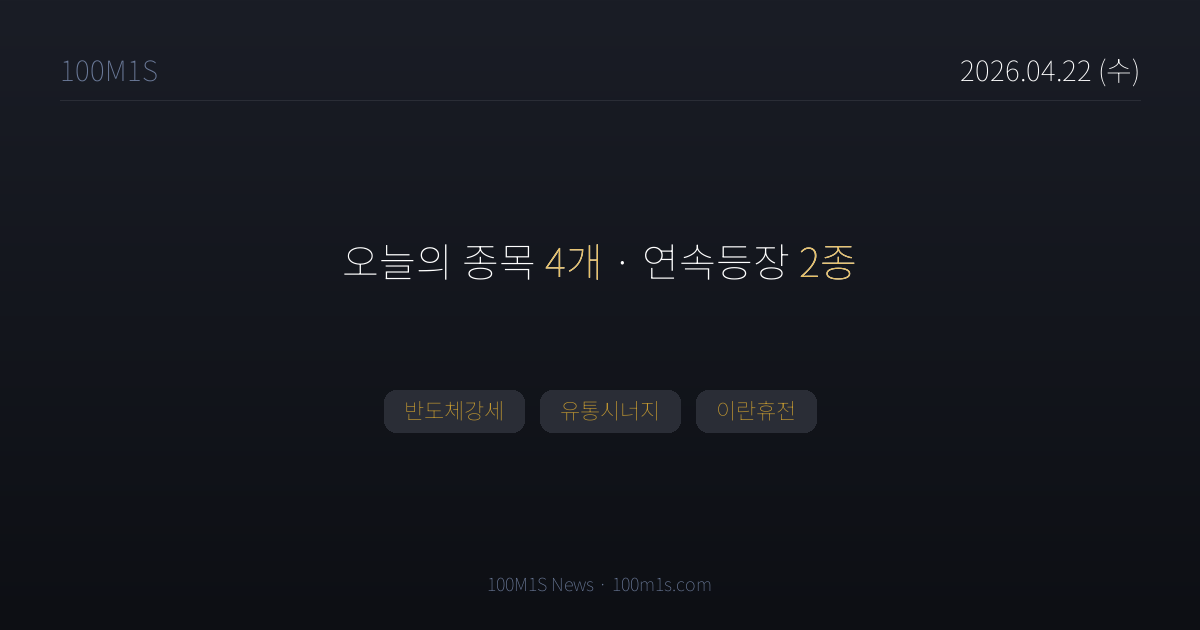
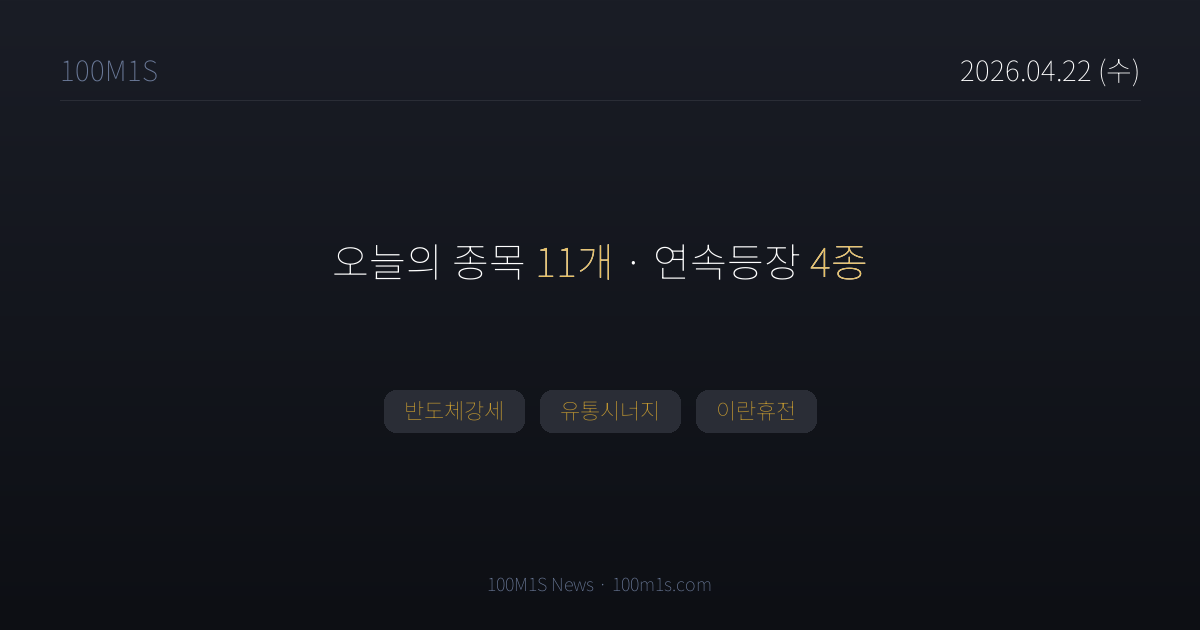
chore(news): 2026-04-22T10:07 pipeline

Changed region(s): [[0.2775, 0.3921, 0.7092, 0.4524]]

diff --git a/news/stock/2026-04-22.html b/news/stock/2026-04-22.html
@@ -3,7 +3,7 @@
 <head>
 <meta charset="UTF-8">
 <title>4월 22일 (수) 뉴스 — 100M1S</title>
-<meta property="og:title" content="4월 22일 (수) · 종목 4개">
+<meta property="og:title" content="4월 22일 (수) · 종목 11개">
 <meta property="og:description" content="반도체강세, 유통시너지, 이란휴전">
 <meta property="og:image" content="https://100m1s.com/og/news/stock/2026-04-22.png">
 <meta property="og:image:width" content="1200">
